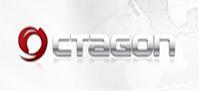
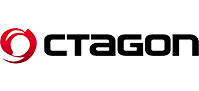
More adjustment for screensaver png

diff --git a/lib/python/Screens/ScreenSaver.py b/lib/python/Screens/ScreenSaver.py
@@ -11,7 +11,7 @@ class Screensaver(Screen):
 		self.skin = """
 			<screen name="Screensaver" position="fill" flags="wfNoBorder">
 				<eLabel position="fill" backgroundColor="#54111112" zPosition="0"/>
-				<widget name="picture" pixmap="skin_default/openxta.png" position="0,0" size="200,92" alphatest="blend" backgroundColor="#54111112" transparent="1" zPosition="1"/>
+				<widget name="picture" pixmap="skin_default/openeight.png" position="0,0" size="200,92" alphatest="blend" backgroundColor="#54111112" transparent="1" zPosition="1"/>
 			</screen>"""
 
 		Screen.__init__(self, session)
